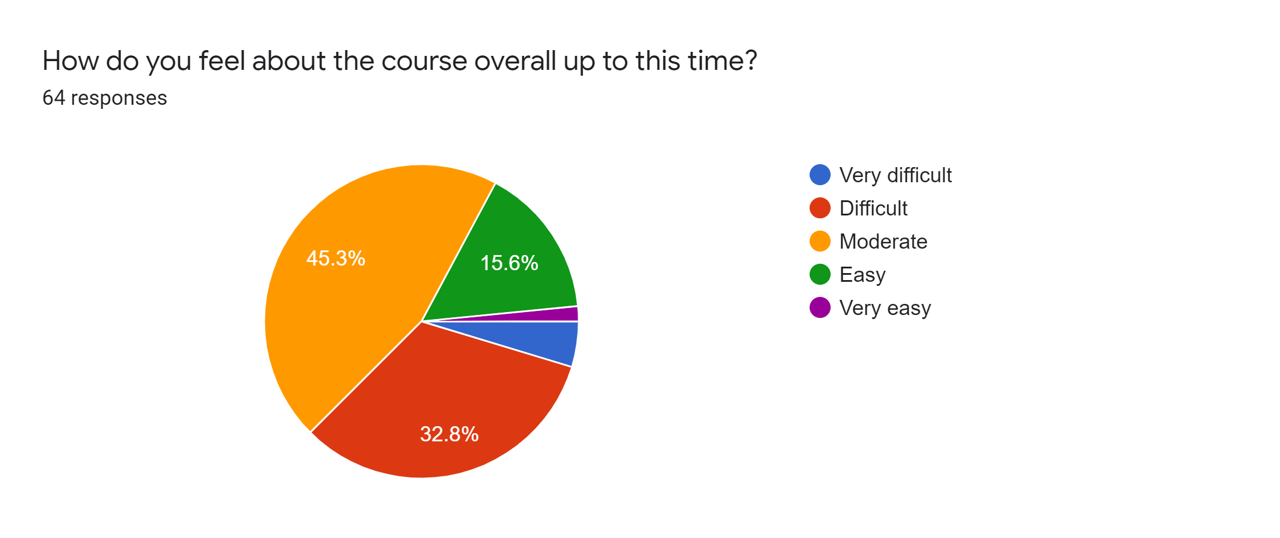
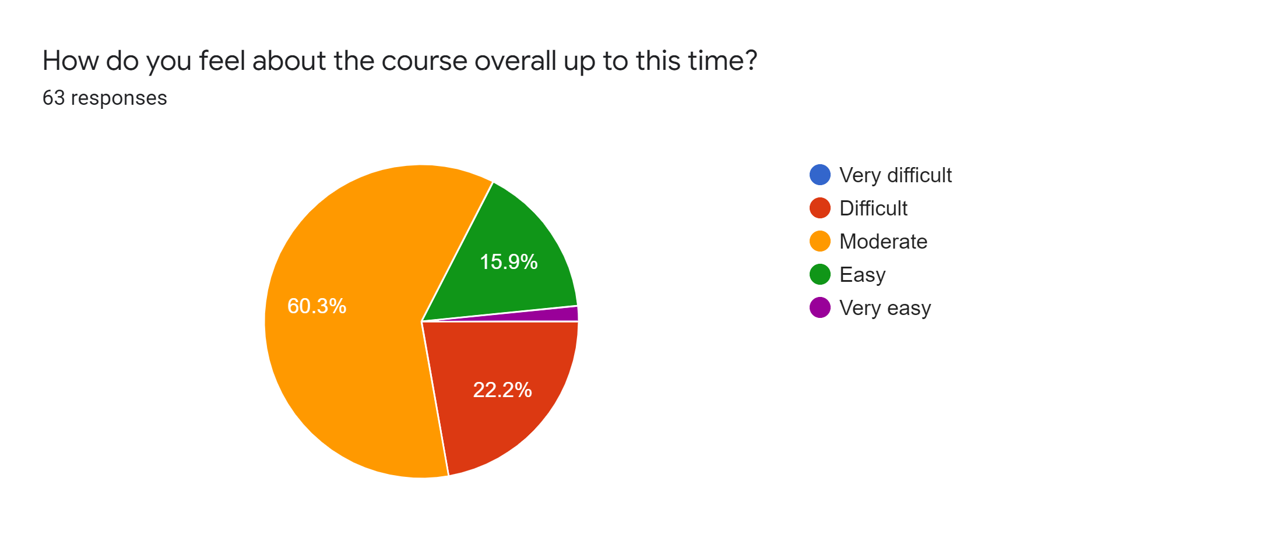
update

diff --git a/doc/Q1_Feedback_Answer.md b/doc/Q1_Feedback_Answer.md
@@ -17,14 +17,14 @@ I would first talk about the grading scheme in this course.
 
 from [https://github.com/chulminy/AE_ENVE_GEOE_121#grading](https://github.com/chulminy/AE_ENVE_GEOE_121#grading)
 
-I designed this course so that **the final class average ranges from 75 to 80**. I assume that you receive a full mark from homework assignments, attendance, preassessement, and online engagement if you desire the final grade that is above average. This is the bare minimum for students who take this course if they are willing to learn from this course. They contribute 34% of your final grade. This is definitely not a small number.
+I designed this course so that **the final class average ranges from 75 to 80**. I assume that you receive a full mark from homework assignments, attendance, preassessement, and online engagement if you desire the final grade above average. This is the bare minimum for students who take this course if they are willing to learn from this course. They contribute 34% of your final grade. This is definitely not a small number.
 
 Let's assume that you receive 50 from all quizzes (actually very low scores). That will become 35% of your overall grade, and your final course average becomes 69. Now let’s consider a scenario where you receive an average 70 from your quizzes, then your final grade becomes 83. Although you received low scores on the quizzes, they do not drastically affect your final grade because you get the basic marks from the homework assignments, attendance, preassessment, and online engagement. If you receive over average 80 on quizzes, you will get over 90 in your final grade. I hope you understand this grading mechanism. 
 
 I understand you are not happy about the difficulty of the quiz problems. However, it is not hard to pass the course or achieve a descent final grade if you submit all homework assignments on time and receive a full mark from online engagement considering that our quizzes do not hold as much contribution as they normally would. Also, in doing this, we can give an advantage to the students who steadily study this course. Your efforts will pay off! 
 
 ## Results
-All 62 students responded to the survey and the results are presented below: 
+All 63 students responded to the survey and the results are presented below: 
 
 ### Q. How did you feel about your first quiz? Note that the target overall average is 75~80.
 ![](img/q1_graph1.png)
@@ -37,7 +37,7 @@ All 62 students responded to the survey and the results are presented below:
 ## Major changes based on students' feedback
 * Kahoot questions will be posted on a course website a day or two before the class. 
 * The first three lab questions will be open a day or two before each lab so that students can solve them in advance.
-*  
+
 
 ## Advice to the Students 
 * Please read the course syllabus and quiz instruction carefully. Please read them before taking the quiz.

diff --git a/README.md b/README.md
@@ -4,7 +4,7 @@
 |:--------|:-----------|
 |<img src="doc/img/civil_engineer.png" height="200">|**Instructor:** Chul Min Yeum (cmyeum@uwaterloo.ca) <br> **TA 1:** Ethan Woo (ethan.woo@uwaterloo.ca) <br> **TA 2:** Violet Cotton (violet.cotton@uwaterloo.ca) <br><br> **Class (AE121):** Mon & Tue (2:00 to 3:30 PM) at CPH 3604  <br> **Programming Lab (AE121):** Thu (12:30 to 3:20 PM) at CPH 1346 <br> <br> **Class (ENVE/GEOE121):** Mon & Wed (11:00 to 12:30 PM) at RCH 305<br> **Programming Lab (ENVE/GEOE121):** Fri (2:30 to 5:20 PM) at CPH 1346 <br> <br> **Office hours (TA)**: Visit the WEEF TA office (E2 1787) <br> **Office hours (Instructor)**: By appointment|
 
-**Last updated:** 2022-05-11  
+**Last updated:** 2022-05-24  
 
 **Previous offerings of this course**
 - [**Computational Method (Winter, 2022)**](old/w2022)
@@ -29,6 +29,7 @@
 - [**Kahoot**](tutorial/KAHOOT)   
 
 **Course**  
+- May 24: Course feedback (4th Week): [Link](doc/Quiz1_Description.md)  
 - May 10: Instruction for Quiz 1: [Link](doc/Quiz1_Description.md)  
 
 ## Announcement
